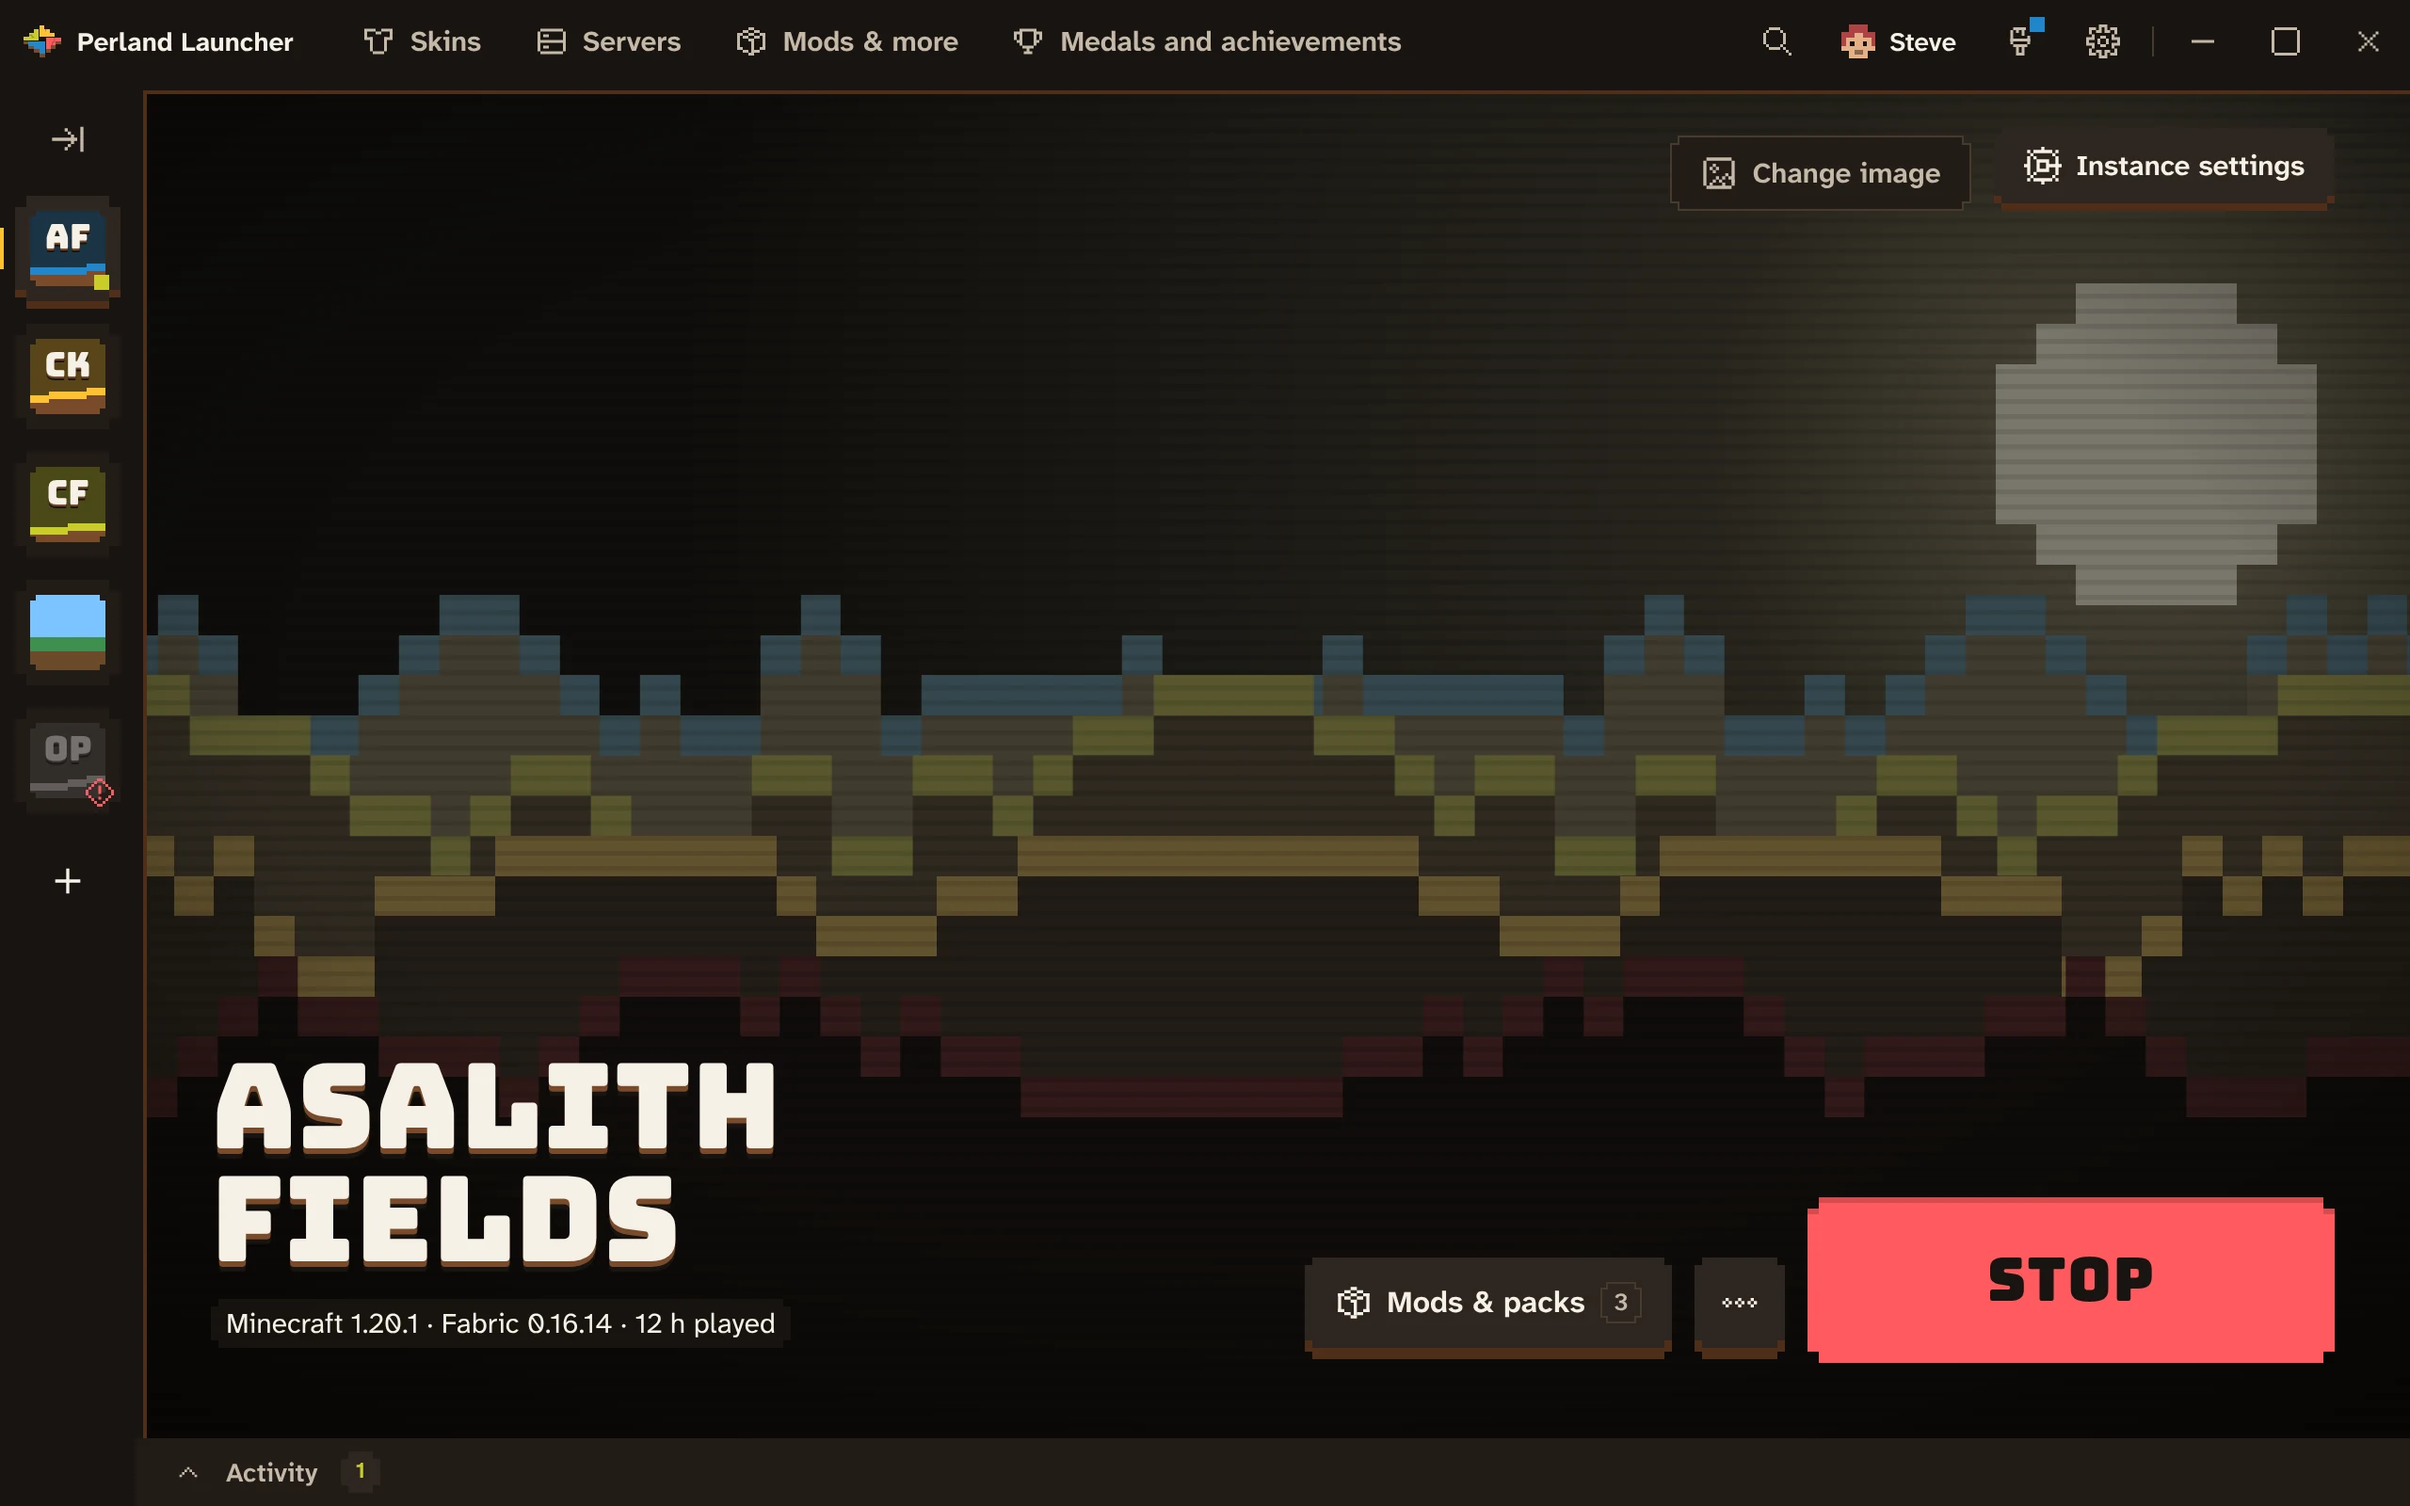
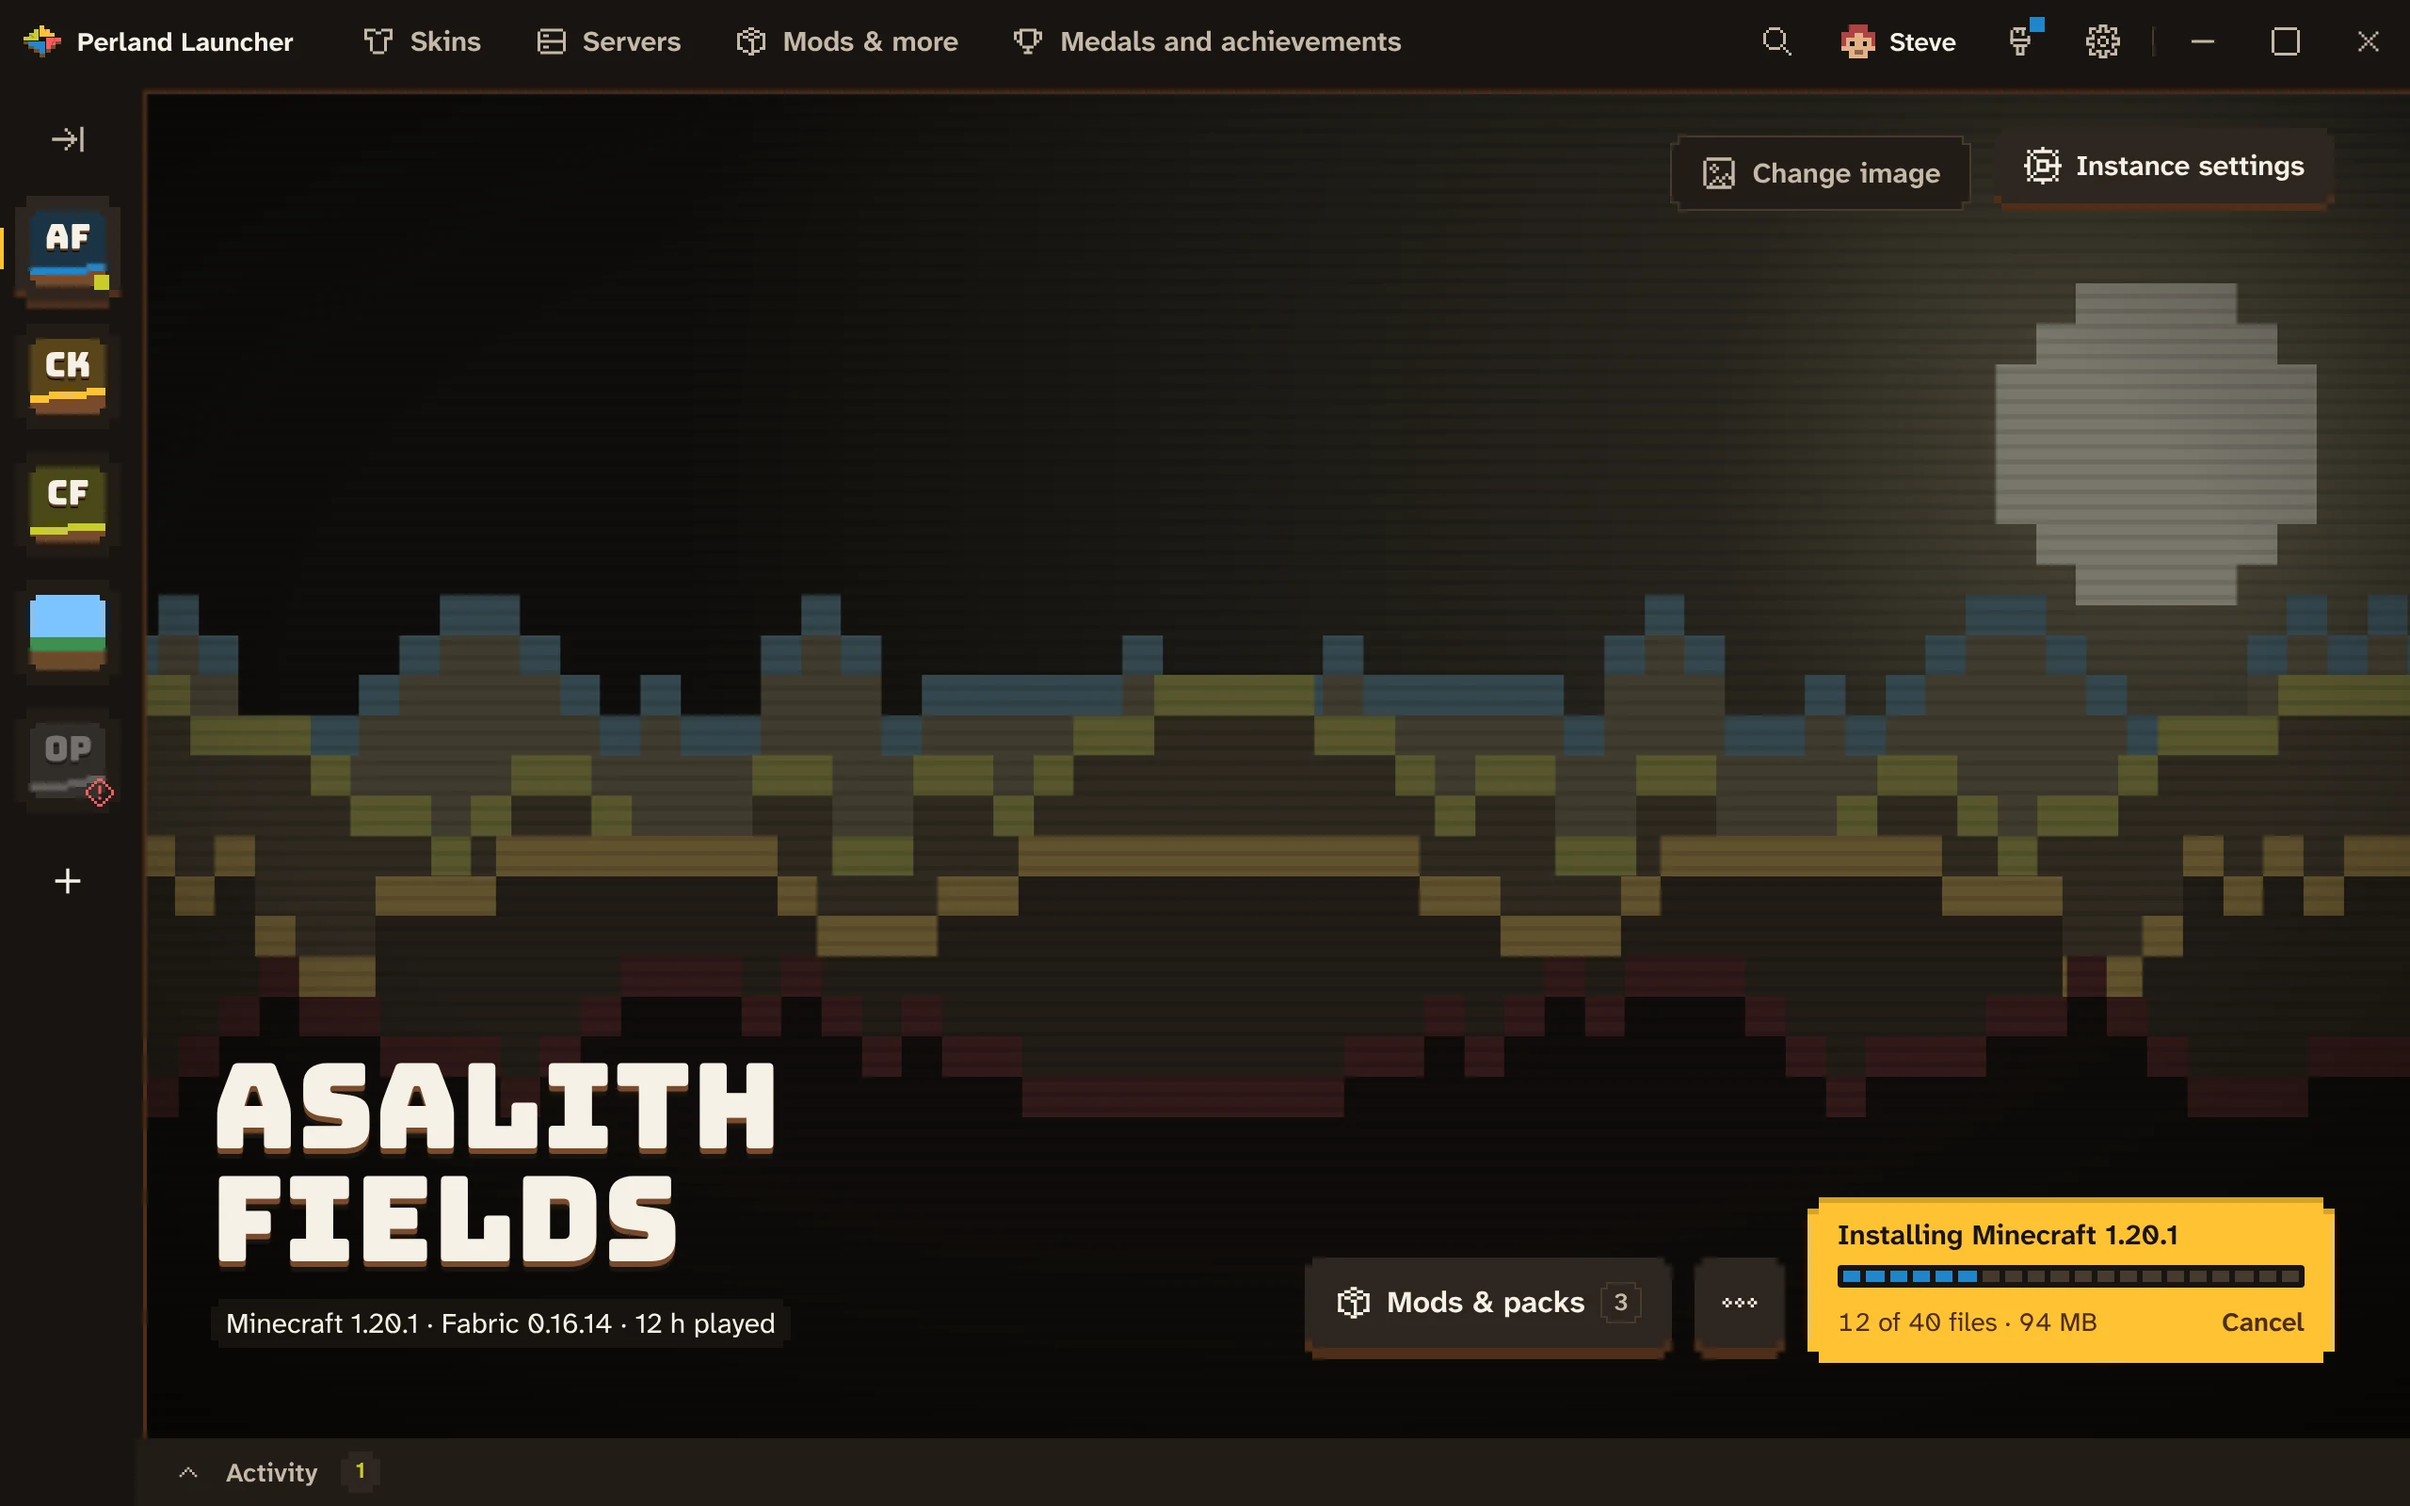
Retake the installing screenshot with the progress bar showing
Claude-Session: https://claude.ai/code/session_01FVuNNgyryzZCGVPEJ3pxt2

Changed region(s): [[0.75, 0.7812, 0.9688, 0.9062]]

diff --git a/README.md b/README.md
@@ -41,7 +41,7 @@ Most launchers hand you a pile of settings. Perland Launcher hands you a **Play*
 
 <table>
   <tr>
-    <td width="50%"><img src="docs/screenshots/installing.webp" alt="Play turns into a progress bar while the launcher installs Minecraft 1.20.1: 37 of 40 files, 289 MB"></td>
+    <td width="50%"><img src="docs/screenshots/installing.webp" alt="Play turns into a progress bar while the launcher installs Minecraft 1.20.1: 12 of 40 files, 94 MB"></td>
     <td width="50%"><img src="docs/screenshots/skins.webp" alt="The Skins screen: a 3D figure to paint on, the skin's texture map, a colour palette, painting tools and a wardrobe of saved skins"></td>
   </tr>
   <tr>
